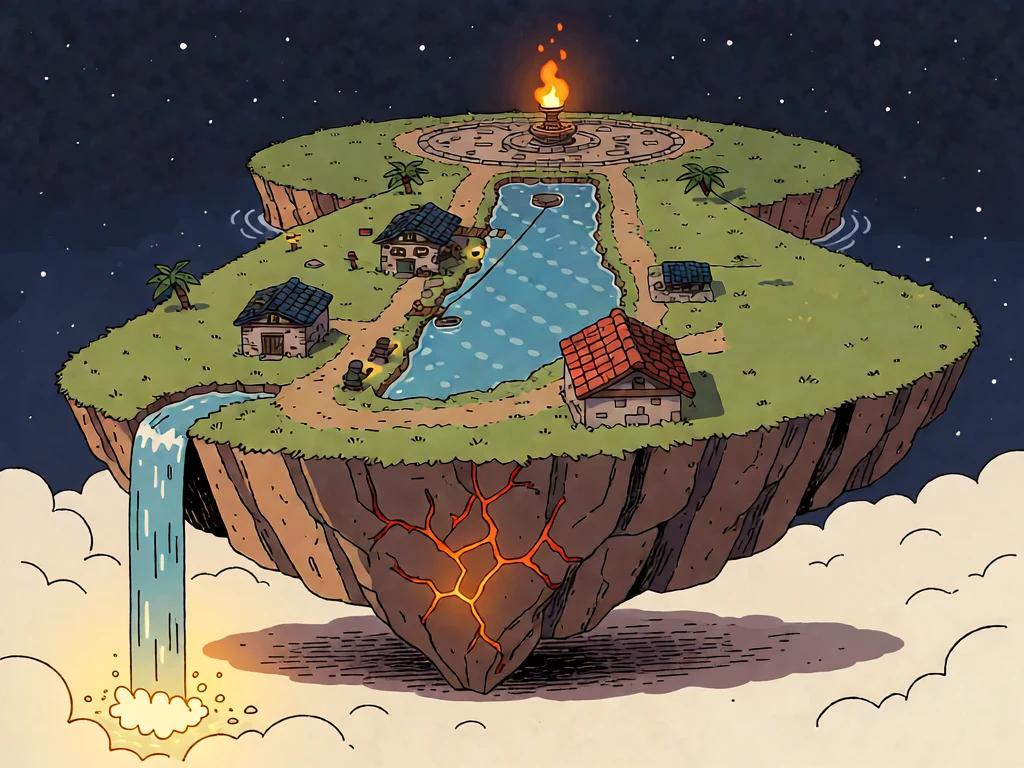
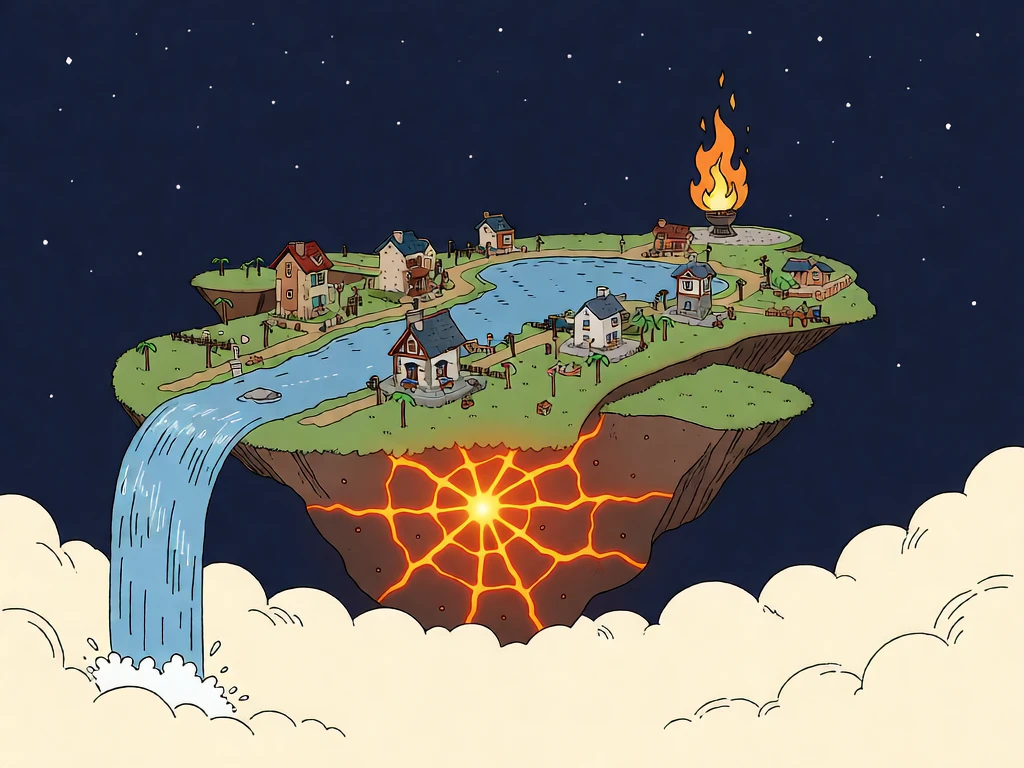
End of run 7 picture: the island redrawn from the game's own map
Claude-Session: https://claude.ai/code/session_01JTmPYBGE5RJi7qTbK5Qior

diff --git a/CREDITS.md b/CREDITS.md
@@ -16,7 +16,7 @@ subscription-only billing so no Spark was spent. Sources are in the project file
 | stills/r8-{1,2,7,10,11a,11b}.webp (run 8's reaction stills: Tilda steady, Tilda and Rook at the far well, Rook asking for Granny (redrawn the same day, more concerned, at Ladi's word), the count book, Tilda asking, Rook with no answer) | Drafts drawn by the gameplay thread with krea2_identity_edit_v1_2 on Sogni, 2026-11-24, on Ladi's plan, 0 Spark (project files `gameplay/stills/run8/`), 1024 by 768 as delivered. | The stills panel over the Sieve (`src/engine/stills.ts`) |
 | stills/r8-5.webp, stills/r8-6.webp (run 8's reaction stills at the tug: Tilda lost with Rook uneasy behind her; Tilda watching, Rook looking down) | Drawn by the cutscene thread on Sogni, 2026-11-24, on Ladi's plan; Ladi approved them at 10:44 AM ("Faces look good"). Every step with krea2_identity_edit_v1_2 on the subscription, 0 Spark, as that thread confirmed from its render logs (Tilda alone, Rook added behind her, the face changes on head crops), from the project's own persona sheets lf-tilda and lf-rook-high-grounds; the face transplants, Tilda's chalk smudge and Rook's enlarging are its own script and hand work, no model (sources `sogni/lanternfall/production/story/run8-stills/s5-closer.png` and `s6-closer.png`; delivered in project files `gameplay/stills/run8/`), 1024 by 768 as delivered | The stills panel over the Sieve: 5 as the tug takes hold, 6 cross-fading over it when the tug ends |
 | stills/r6-land-{1,2,3}.webp (run 6's landing pictures: the crowd looking up with Lumi in front, the comet over the island, Hesta landing in the glass) | Drafts drawn by the gameplay thread on Sogni, 2026-11-24, on Ladi's plan, 0 Spark, all with krea2_identity_edit_v1_2; picture 2 redrawn the same day from the game's own island; picture 3 redrawn on 2026-11-25 by the cutscene thread on Ladi's notes, Hesta alone on the Kindling ground's paving (`r6-land-3-paved`, 0 Spark, not seen by Ladi yet) (project files `gameplay/stills/run6/`), 1024 by 768 as delivered | The held pictures of the landing between runs 6 and 7; picture 2 shows only with `?stillsonly`, since the comet now falls on the map |
-| stills/alarm/**/*.webp (the alarm before run 6 as moving layers: the kitchen with its lamp and three cups apart; the falls; the Kindling ground close with its fire strong, low, in embers and out, drawn from the game's own story/kindling-ring.webp; and in shot4/ the island going down: sky, five layers of cloud, the island cut out with its heart bright and dim, a strip of waterfall, four rocks), stills/r6-alarm-5.webp (Lumi at the door, worried) and stills/r7-end-1.webp (the island clear of the cloud) | Drafts drawn by the gameplay thread on Sogni, 2026-11-24, on Ladi's plan, 0 Spark, with krea2_identity_edit_v1_2, the island drawn from the game's own (project files `gameplay/stills/run6/` and `gameplay/stills/run6/alarm-layers/`); the layers turned from PNG to WebP here, same sizes | The alarm's five shots before run 6 (`?noalarm` leaves them out) and the picture at the end of run 7. The alarm's sparks are drawn in the page, and its sounds (bell, timbers, falls, far-off voices, the low roll, rock breaking) are made in the page, no files |
+| stills/alarm/**/*.webp (the alarm before run 6 as moving layers: the kitchen with its lamp and three cups apart; the falls; the Kindling ground close with its fire strong, low, in embers and out, drawn from the game's own story/kindling-ring.webp; and in shot4/ the island going down: sky, five layers of cloud, the island cut out with its heart bright and dim, a strip of waterfall, four rocks), stills/r6-alarm-5.webp (Lumi at the door, worried) and stills/r7-end-1.webp (the island clear of the cloud; redrawn 2026-11-25 by the cutscene thread over a capture of the game's own island, `r7-end-1-map`, on Ladi's note, 0 Spark as that thread reports, not seen by Ladi yet) | Drafts drawn by the gameplay thread on Sogni, 2026-11-24, on Ladi's plan, 0 Spark, with krea2_identity_edit_v1_2, the island drawn from the game's own (project files `gameplay/stills/run6/` and `gameplay/stills/run6/alarm-layers/`); the layers turned from PNG to WebP here, same sizes | The alarm's five shots before run 6 (`?noalarm` leaves them out) and the picture at the end of run 7. The alarm's sparks are drawn in the page, and its sounds (bell, timbers, falls, far-off voices, the low roll, rock breaking) are made in the page, no files |
 | stills/alarm/shot4/{island-dim,island-bright,waterfall-strip,debris-1..4}.webp (the alarm's last shot, redrawn so the houses, the landing with its skiff and the lake sit where they are on the map, with the falls down the near face) | Redrawn by the gameplay thread on Sogni, 2026-11-24, straight over a capture of the game's own home island made here (project files `build/home-island-horseshoe/whole/2-day-side.png`); Ladi approved the shot at 11:30 AM ("Shot 4 Descent looks good", draft 5). Model and cost as that thread's other alarm layers (the row above); turned from PNG to WebP here, same sizes; on 2026-11-25 the cutscene thread painted the five small figures out of island-dim and island-bright at Ladi's request (the shot is too wide for people), same size and alpha (`production/story/run6-stills/layers4/nopeople/`) | The island going down, the last shot of the alarm before run 6 |
 | models/rook.glb, lumi.glb, hesta.glb, wick.glb, moth.glb, nell.glb, sefa.glb (story characters) | The cast art thread's rigged and animated models (`production/<who>/<who>-rigged.glb`, 2026-11-23: idle, walk, run, pull, push clips), shipped as delivered (quantised, no meshopt): 570 to 815 KB each |
 | models/maudie.glb, mabry.glb, orrin.glb (home island residents) | The cast art thread's rigged and animated models (`production/<who>/<who>-rigged.glb`, 2026-11-25: idle, walk, run, pull, push; Mabry's cane skinned to her right hand), shipped as delivered, 646 to 737 KB each. Ladi approved the three field drawings ("Looks good to me", 2026-11-25, 4:21 AM); the rigged models are not seen by him yet. Same Sogni pipeline and caveats as the row above | The walks: Maudie at Rook's door, Orrin at his stall, Mabry at the shrine; and in run 7's crowd on Hesta's terrace |
